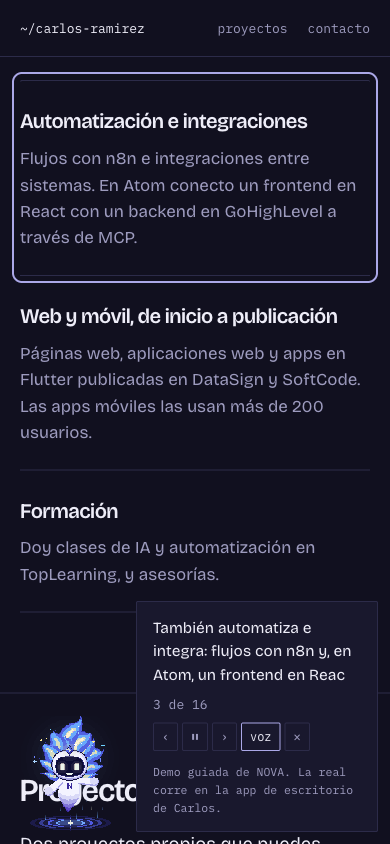
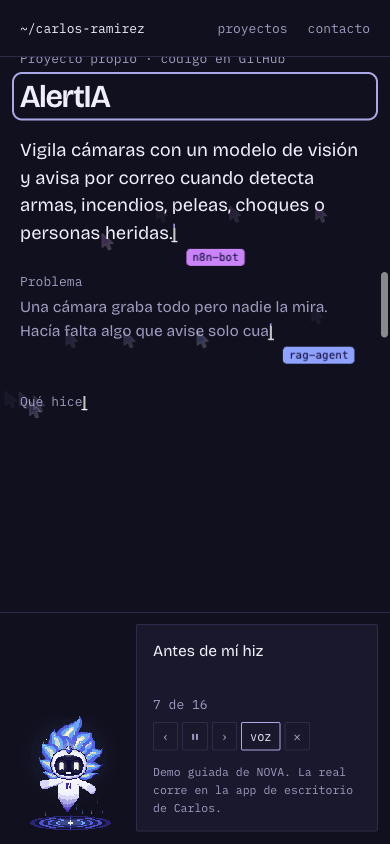
Franja sólida detrás de NOVA en el tour de celular

diff --git a/src/nova/guide.ts b/src/nova/guide.ts
@@ -36,6 +36,8 @@ export class Guide {
   private readonly canvas: HTMLCanvasElement
   readonly avatar: NovaAvatar
   private readonly bubble: HTMLElement
+  /** Fondo sólido de la franja de abajo en celular. */
+  private readonly sheet: HTMLElement
   readonly subtitle: HTMLElement
   private readonly status: HTMLElement
   private readonly buttons: Record<'prev' | 'pause' | 'next' | 'voice' | 'exit', HTMLButtonElement>
@@ -73,6 +75,8 @@ export class Guide {
     this.canvas.className = 'nova-guide-canvas'
     this.avatar = new NovaAvatar(this.canvas)
 
+    this.sheet = element('div', 'nova-sheet')
+    this.sheet.hidden = true
     this.bubble = element('div', 'nova-bubble')
     this.subtitle = element('div', '')
     this.subtitle.id = 'nova-subtitle'
@@ -90,7 +94,7 @@ export class Guide {
     controls.append(this.buttons.prev, this.buttons.pause, this.buttons.next, this.buttons.voice, this.buttons.exit)
     const foot = element('p', 'mono mt-3 text-[11.5px]', 'Demo guiada de NOVA. La real corre en la app de escritorio de Carlos.')
     this.bubble.append(this.subtitle, this.status, controls, foot)
-    this.root.append(this.canvas, this.bubble)
+    this.root.append(this.sheet, this.canvas, this.bubble)
     document.body.append(this.root)
 
     const start = this.from()
@@ -335,8 +339,10 @@ export class Guide {
       this.avatar.setGaze(null)
     }
 
+    this.sheet.hidden = !narrow()
     if (narrow()) {
       // Franja de abajo: NOVA a la izquierda, la burbuja ocupa el resto, y la página no pasa por debajo.
+      this.sheet.style.height = `${this.sheetHeight()}px`
       const left = 12 + size + 8
       this.bubble.style.left = `${left}px`
       this.bubble.style.width = `${window.innerWidth - left - 12}px`

diff --git a/src/style.css b/src/style.css
@@ -273,6 +273,17 @@ body {
   image-rendering: pixelated;
   will-change: transform;
 }
+.nova-sheet {
+  position: absolute;
+  left: 0;
+  right: 0;
+  bottom: 0;
+  background: var(--ink);
+  border-top: 1px solid var(--rule);
+}
+.nova-sheet[hidden] {
+  display: none;
+}
 .nova-bubble {
   position: absolute;
   pointer-events: auto;
